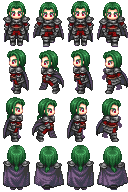
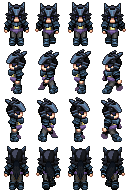
replaced characters with open source assets

diff --git a/README.md b/README.md
@@ -17,3 +17,7 @@
 * Use action 5: press 3
 * Use action 6: press 4
 * Target yourself: keep left shift pressed
+
+# License
+Character graphics by Sithjester - slightly adapted
+http://untamed.wild-refuge.net/rpgxp.php
